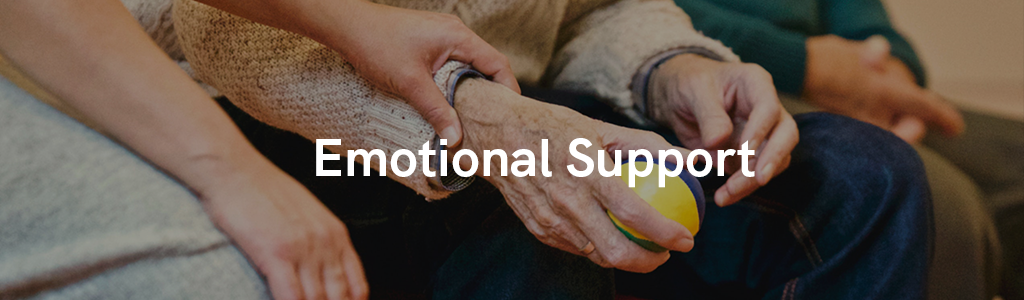
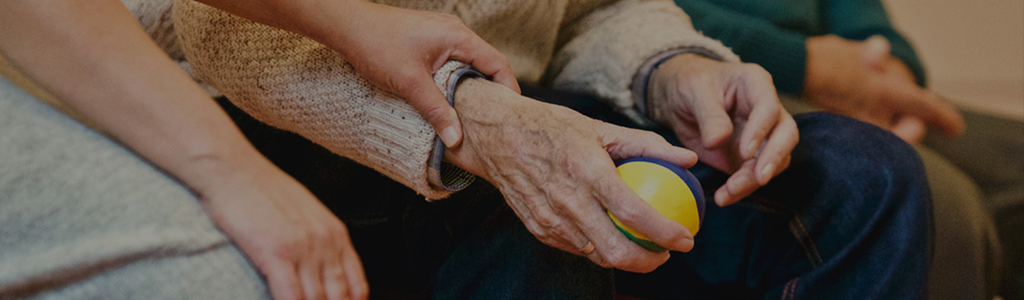
Clean and update
- update images for desktop and mobile

Changed region(s): [[0.2812, 0.45, 0.75, 0.63]]

diff --git a/style.css b/style.css
@@ -1496,6 +1496,34 @@ a.meanmenu-reveal {
   .mob-order2{
     order: 2;
   }
+  .contactus-area{
+    background-image: url(img/bg/contactusmobile.png) !important;
+    padding: 130px 0 !important;
+  }
+  .image-area{
+    background-image: url(img/bg/toppageimagemobile.png) !important;
+    background-size: auto !important;
+    padding: 50px 0px 0px !important;
+    height: unset !important;
+  }
+  .page-banner-area{
+    background-image: url(img/bg/aboutusbannermobile.png) !important;
+    background-size: auto !important;
+    padding: 200px 0px 0px !important;
+    height: unset !important;
+  }
+  .emotionalsupport-area{
+    background-image: url(img/bg/emotionalsupportmobile.png) !important;
+    background-size: auto !important;
+  }
+  .fitness-area{
+    background-image: url(img/bg/Fitnessmobile.png) !important;
+    background-size: auto !important;
+  }
+  .massage-area{
+    background-image: url(img/bg/massagemobile.jpg) !important;
+    background-size: auto !important;
+  }
 }
 a.meanmenu-reveal:hover {
   background-color: #77c14b;
@@ -3673,6 +3701,8 @@ a.meanmenu-reveal i {
   width: 250px;
   height: 250px;
   border-radius: 50%;
+  -webkit-filter: grayscale(100%); /* Safari 6.0 - 9.0 */
+  filter: grayscale(100%);
 }
 .single-volunteer .content {
   padding-top: 34px;

diff --git a/index.html b/index.html
@@ -110,10 +110,10 @@
     <!-- Hero Area Start -->
     <div id="hero-area" class="hero-area section">
         <!-- Hero Slider -->
-        <div id="hero-slider" class="nivoSlider">
-            <img src="img/bg/meditation.png" alt="Image" title="#herocaption-1" />
-            <img src="img/bg/Art.png" alt="Image" title="#herocaption-2" />
-            <img src="img/bg/beauty.png" alt="Image" title="#herocaption-3" />
+        <div id="hero-slider" class="nivoSlider desktop-only">
+            <img class="slider-1" src="img/bg/meditation.png" alt="Image" title="#herocaption-1" />
+            <img class="slider-2" src="img/bg/Art.png" alt="Image" title="#herocaption-2" />
+            <img class="slider-3" src="img/bg/beauty.png" alt="Image" title="#herocaption-3" />
         </div>
     </div>
         

diff --git a/about.html b/about.html
@@ -148,7 +148,7 @@
             <div class="row">
                 <!-- Single Volunteer -->
                 <div class="single-volunteer col-lg-12 col-md-6 col-12 mb-50">
-                    <div class="image"><img src="img/volunteer/1.jpg" alt=""></div>
+                    <div class="image"><img src="img/bg/team2.jpg" alt=""></div>
                     <div class="content fix">
                         <h4>Fennella Simento</h4>
                         <span>Operations Manager</span>
